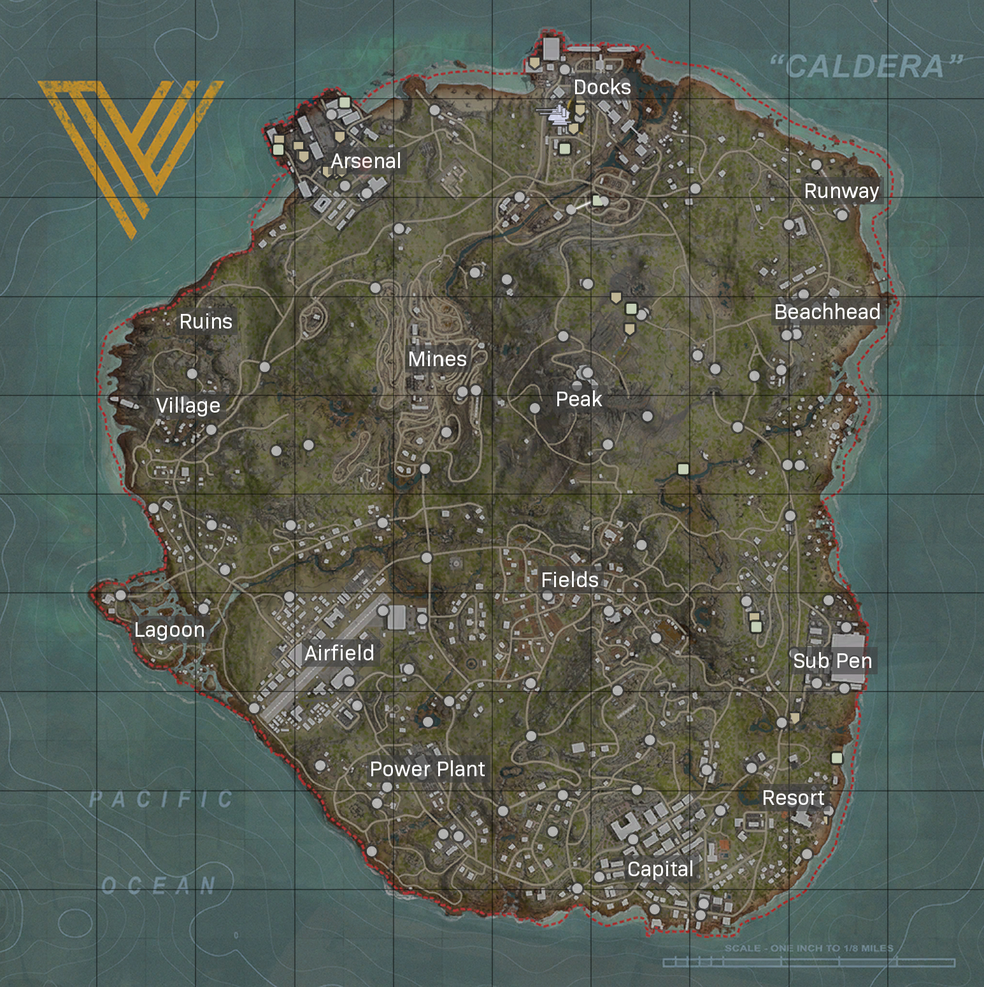
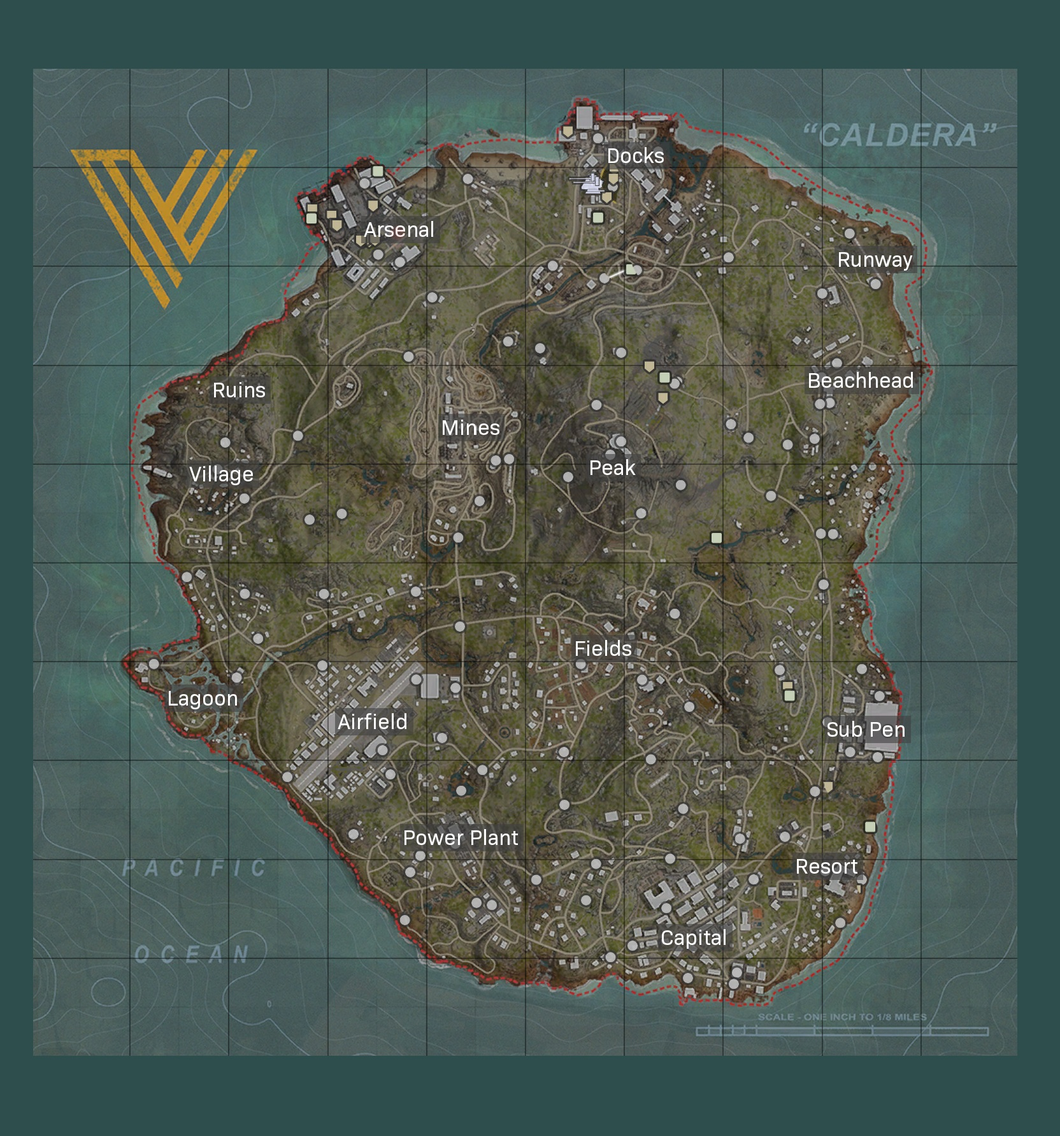
Adding new images and making map smaller so crosshair can hit edge

diff --git a/WarzoneDropSpot/WarzoneDropSpot/MainPage.xaml b/WarzoneDropSpot/WarzoneDropSpot/MainPage.xaml
@@ -27,7 +27,7 @@
 
             <AbsoluteLayout Padding="10">
                 <Image Source="warzonemap.jpg"/>
-                <Image IsVisible="{Binding CrosshairEnabled}" Source="crosshair.png" Scale="0.5" AnchorX="{Binding XPos}" AnchorY="{Binding YPos}"/>
+                <Image IsVisible="{Binding CrosshairEnabled}" Source="crosshair.png" Scale="0.25" AnchorX="{Binding XPos}" AnchorY="{Binding YPos}"/>
             </AbsoluteLayout>
     </StackLayout>
     </ScrollView>

diff --git a/WarzoneDropSpot/WarzoneDropSpot/MainPage.xaml.cs b/WarzoneDropSpot/WarzoneDropSpot/MainPage.xaml.cs
@@ -151,16 +151,20 @@ namespace WarzoneDropSpot
             switch (randomVal)
             {
                 case int n when 0 < n && n <= 18:
-                    return "Recon Contract"; 
-                case int n when 18 < n && n <= 36:
+                    return "Recon Contract";
+                case int n when 18 < n && n <= 27:
                     return "Bounty Contract";
+                case int n when 27 < n && n <= 36:
+                    return "Big Game Bounty Contract";
                 case int n when 36 < n && n <= 40:
                     return "Most Wanted Contract";
                 case int n when 40 < n && n <= 58:
                     return "Scavenger Contract";
                 case int n when 58 < n && n <= 66:
                     return "Supply Run Contract";
-                case int n when 66 < n && n <= 78:
+                case int n when 66 < n && n <= 72:
+                    return "Supply Drop Contract";
+                case int n when 72 < n && n <= 78:
                     return "Hot Drop";
                 case int n when 78 < n && n <= 90:
                     return "Slow Drop";
